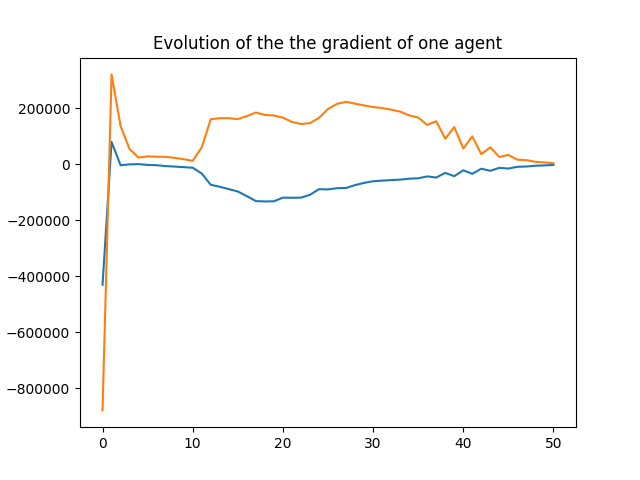
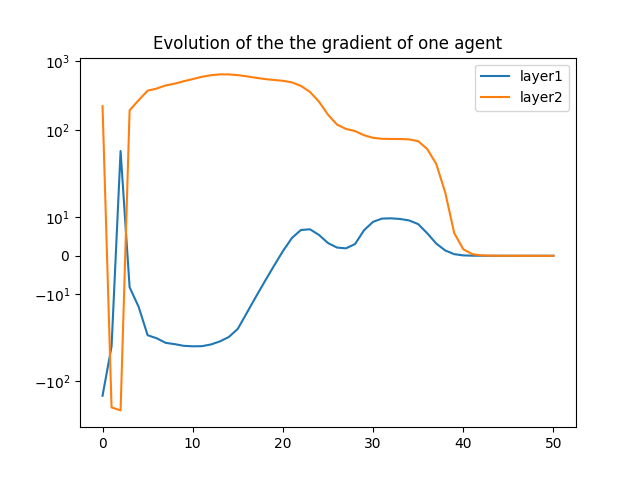
Plot in logaritmic scale

diff --git a/Task1/Causal Gradient Tracking BCEwithLogits.py b/Task1/Causal Gradient Tracking BCEwithLogits.py
@@ -230,8 +230,6 @@ for tt in range(MAXITERS):  # For each iteration
 	if (tt % 1) == 0:
 		print(f"Iteration {tt:3d} - loss: {np.sum(J[tt]):4.3f}", end="\n")
 
-print(np.sum(np.sum(Delta_u, axis=-1), axis=-1)[:-1, 0, :])
-
 # Plot evolution of cost function
 fig = plt.figure()
 plt.semilogy(np.arange(MAXITERS), np.sum(J, axis=1), linestyle='-', linewidth=2)
@@ -249,9 +247,12 @@ plt.title(r"Evolution of the cost error (single agents)")
 plt.show()
 fig.savefig('./Task1/imgs/BCE/Cost error (single agents).png')
 
-# Plot the gradient onf one agent over time for each layer
+# Plot the gradient of one agent over time for each layer
 fig = plt.figure()
-plt.plot(np.arange(MAXITERS), np.sum(np.sum(Delta_u, axis=-1), axis=-1)[:-1, 0, :])
+lines = plt.plot(np.arange(MAXITERS), np.sum(np.mean(Delta_u, axis=-1), axis=-1)[:-1, 0, :])
+plt.yscale("symlog", linthreshy=20)
+legend = [f'layer{i+1}' for i in range(T-1)]
+plt.legend(iter(lines), legend)
 plt.title(r"Evolution of the the gradient of one agent")
 plt.show()
 fig.savefig('./Task1/imgs/BCE/Evolution of the gradient of one agent.png')

diff --git a/Task1/Causal Gradient Tracking.py b/Task1/Causal Gradient Tracking.py
@@ -260,9 +260,12 @@ plt.title(r"Evolution of the cost error (single agents)")
 plt.show()
 fig.savefig('./Task1/imgs/MSE/Cost error (single agents).png')
 
-# Plot the gradient onf one agent over time for each layer
+# Plot the gradient of one agent over time for each layer
 fig = plt.figure()
-plt.plot(np.arange(MAXITERS), np.sum(np.sum(Delta_u, axis=-1), axis=-1)[:-1, 0, :])
+lines = plt.plot(np.arange(MAXITERS), np.sum(np.mean(Delta_u, axis=-1), axis=-1)[:-1, 0, :])
+plt.yscale("symlog", linthreshy=20)
+legend = [f'layer{i+1}' for i in range(T-1)]
+plt.legend(iter(lines), legend)
 plt.title(r"Evolution of the the gradient of one agent")
 plt.show()
 fig.savefig('./Task1/imgs/MSE/Evolution of the gradient of one agent.png')
@@ -278,7 +281,7 @@ for layer in range(T-1):
 	ax.append(fig.add_subplot(rows, columns, layer+1))
 	ax[-1].set_title(f"weights layer: {layer+1}")
 	ax[-1].plot(np.arange(MAXITERS), UU[:-1, :, layer, 0, :10].reshape(MAXITERS,-1))
-fig.savefig('./Task1/imgs/Weights Convercenge.png')
+fig.savefig('./Task1/imgs/MSE/Weights Convercenge.png')
 plt.show()
 
 
